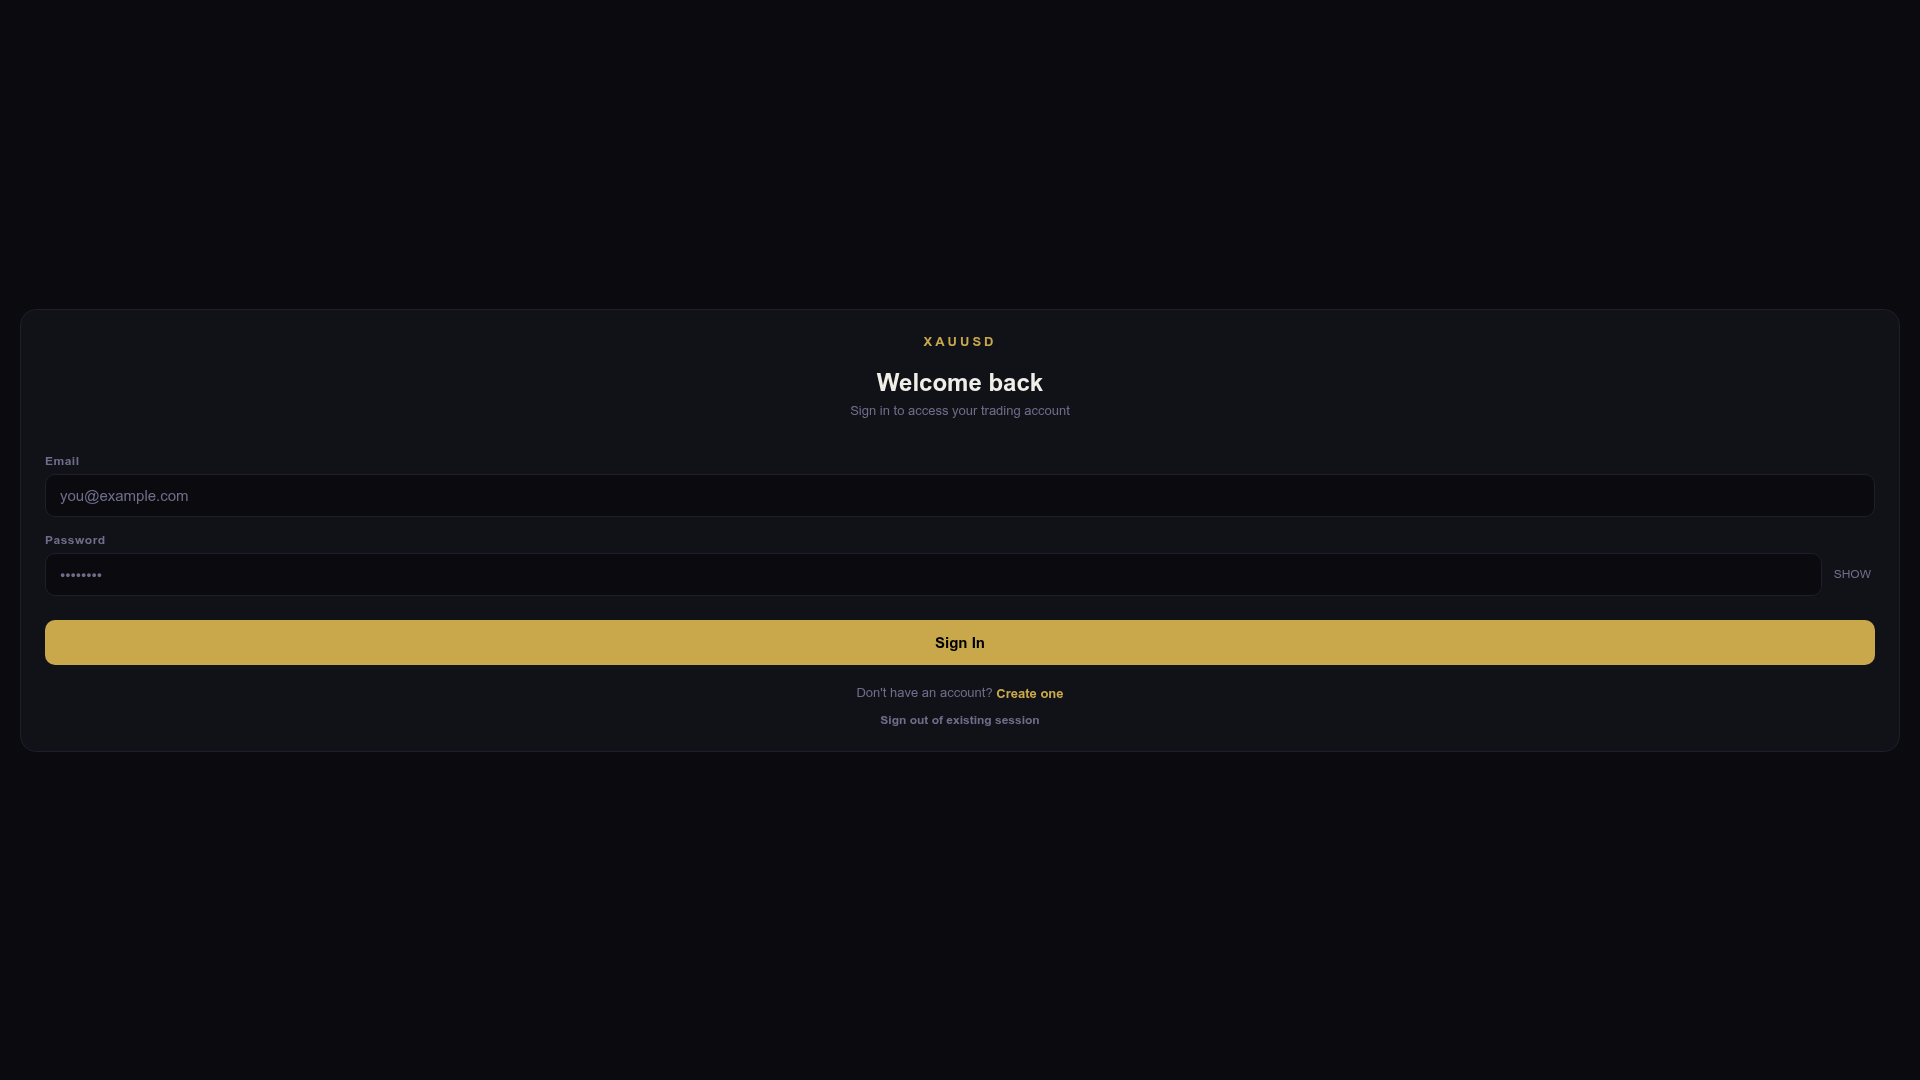
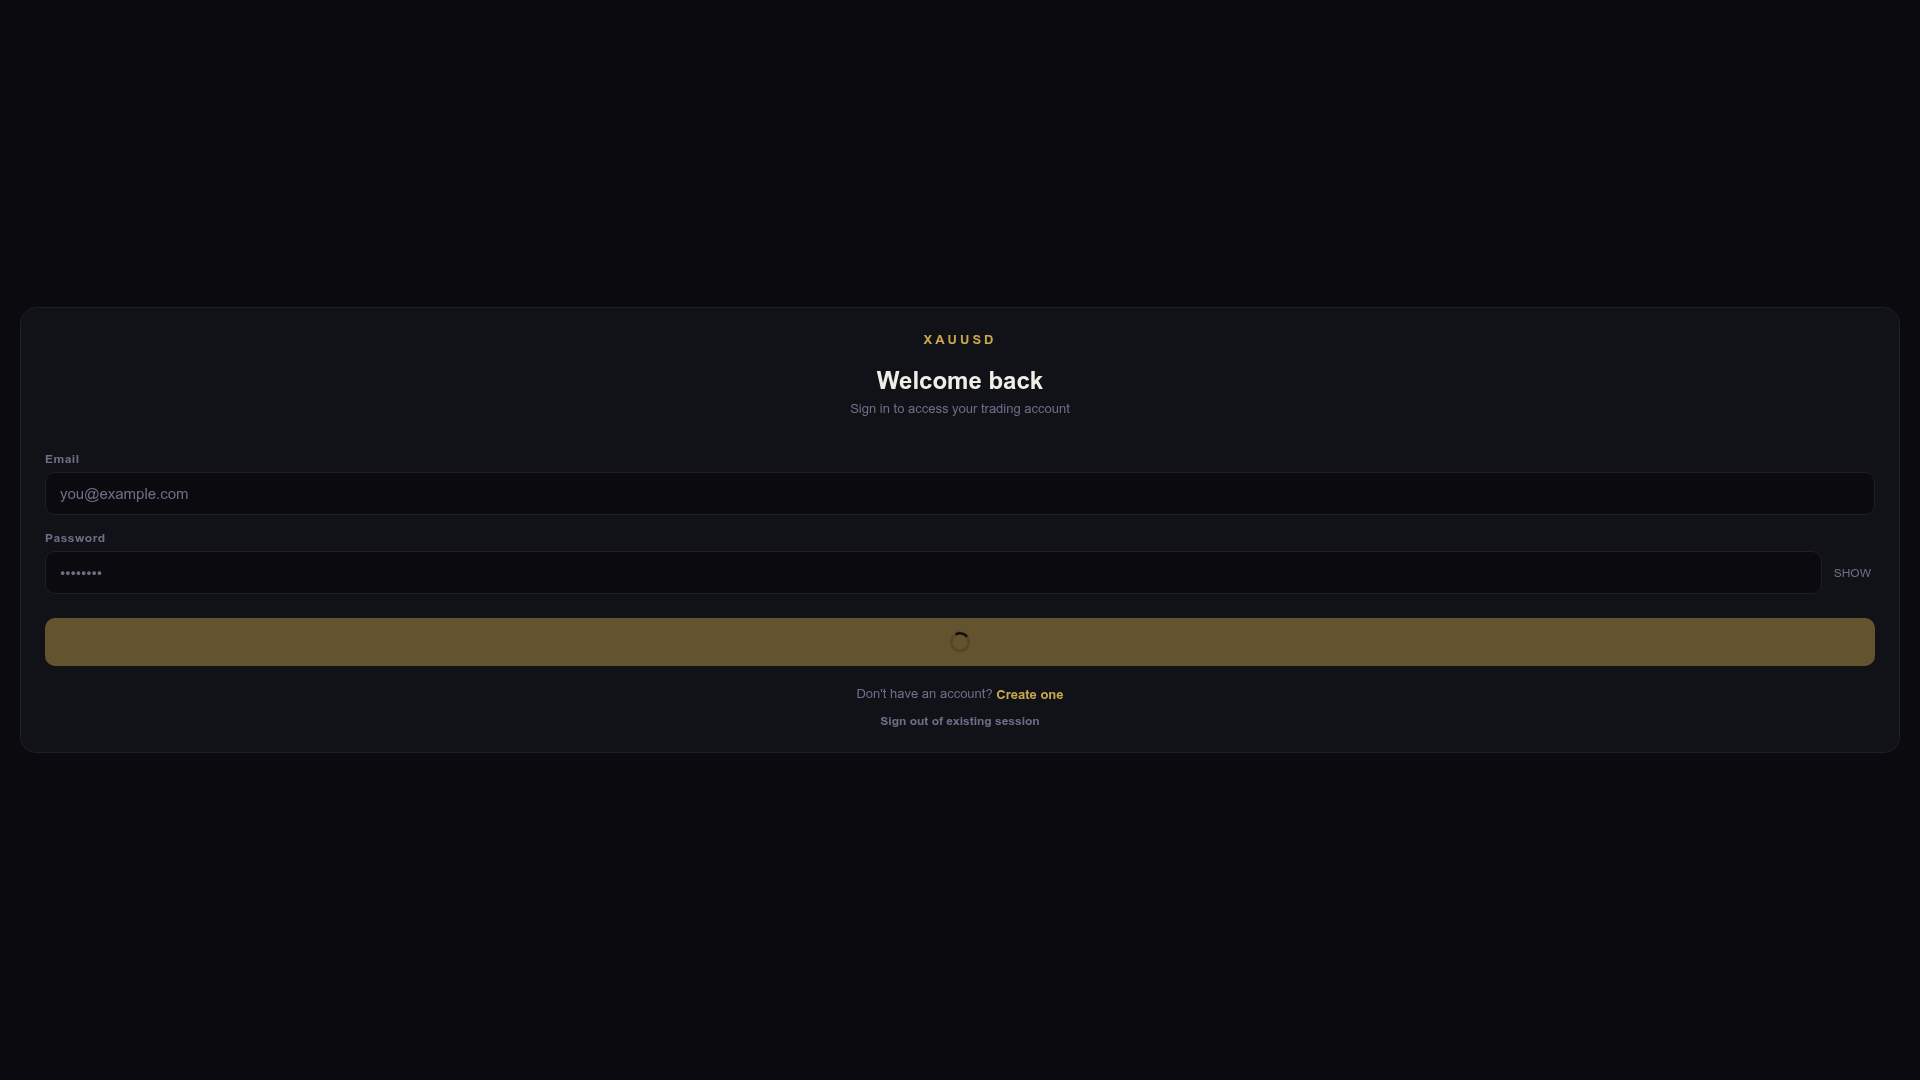
Improve sign-in and sign-up buttons by removing loading state dependency
Remove the `isLoaded` check from the disabled state of the sign-in and sign-up buttons, allowing them to be active even while Clerk is initializing.

Replit-Commit-Author: Agent
Replit-Commit-Session-Id: 0201081b-c6d6-4e9b-a1dd-74d5e75154f5
Replit-Commit-Checkpoint-Type: full_checkpoint
Replit-Commit-Event-Id: 96ddeaec-2ce3-4648-b653-ee88baa4a2d8
Replit-Commit-Screenshot-Url: https://storage.googleapis.com/screenshot-production-us-central1/cda56ca7-a666-424b-a277-b1182a083c51/0201081b-c6d6-4e9b-a1dd-74d5e75154f5/TS0dnI7
Replit-Helium-Checkpoint-Created: true

Changed region(s): [[0.0, 0.4278, 1.0, 0.6722], [0.4688, 0.3361, 0.5312, 0.3972]]

diff --git a/artifacts/mt5-trader/app/(auth)/sign-in.tsx b/artifacts/mt5-trader/app/(auth)/sign-in.tsx
@@ -238,11 +238,11 @@ export default function SignInScreen() {
           {error ? <Text style={styles.error}>{error}</Text> : null}
 
           <Pressable
-            style={[styles.btn, (loading || !isLoaded) && styles.btnDisabled]}
+            style={[styles.btn, loading && styles.btnDisabled]}
             onPress={handleSignIn}
-            disabled={loading || !isLoaded}
+            disabled={loading}
           >
-            {(loading || !isLoaded)
+            {loading
               ? <ActivityIndicator color="#000" />
               : <Text style={styles.btnText}>Sign In</Text>}
           </Pressable>

diff --git a/artifacts/mt5-trader/app/(auth)/sign-up.tsx b/artifacts/mt5-trader/app/(auth)/sign-up.tsx
@@ -209,11 +209,11 @@ export default function SignUpScreen() {
           ) : null}
 
           <Pressable
-            style={[styles.btn, (loading || !isLoaded) && styles.btnDisabled]}
+            style={[styles.btn, loading && styles.btnDisabled]}
             onPress={handleSignUp}
-            disabled={loading || !isLoaded}
+            disabled={loading}
           >
-            {(loading || !isLoaded)
+            {loading
               ? <ActivityIndicator color="#000" />
               : <Text style={styles.btnText}>Create Account</Text>}
           </Pressable>